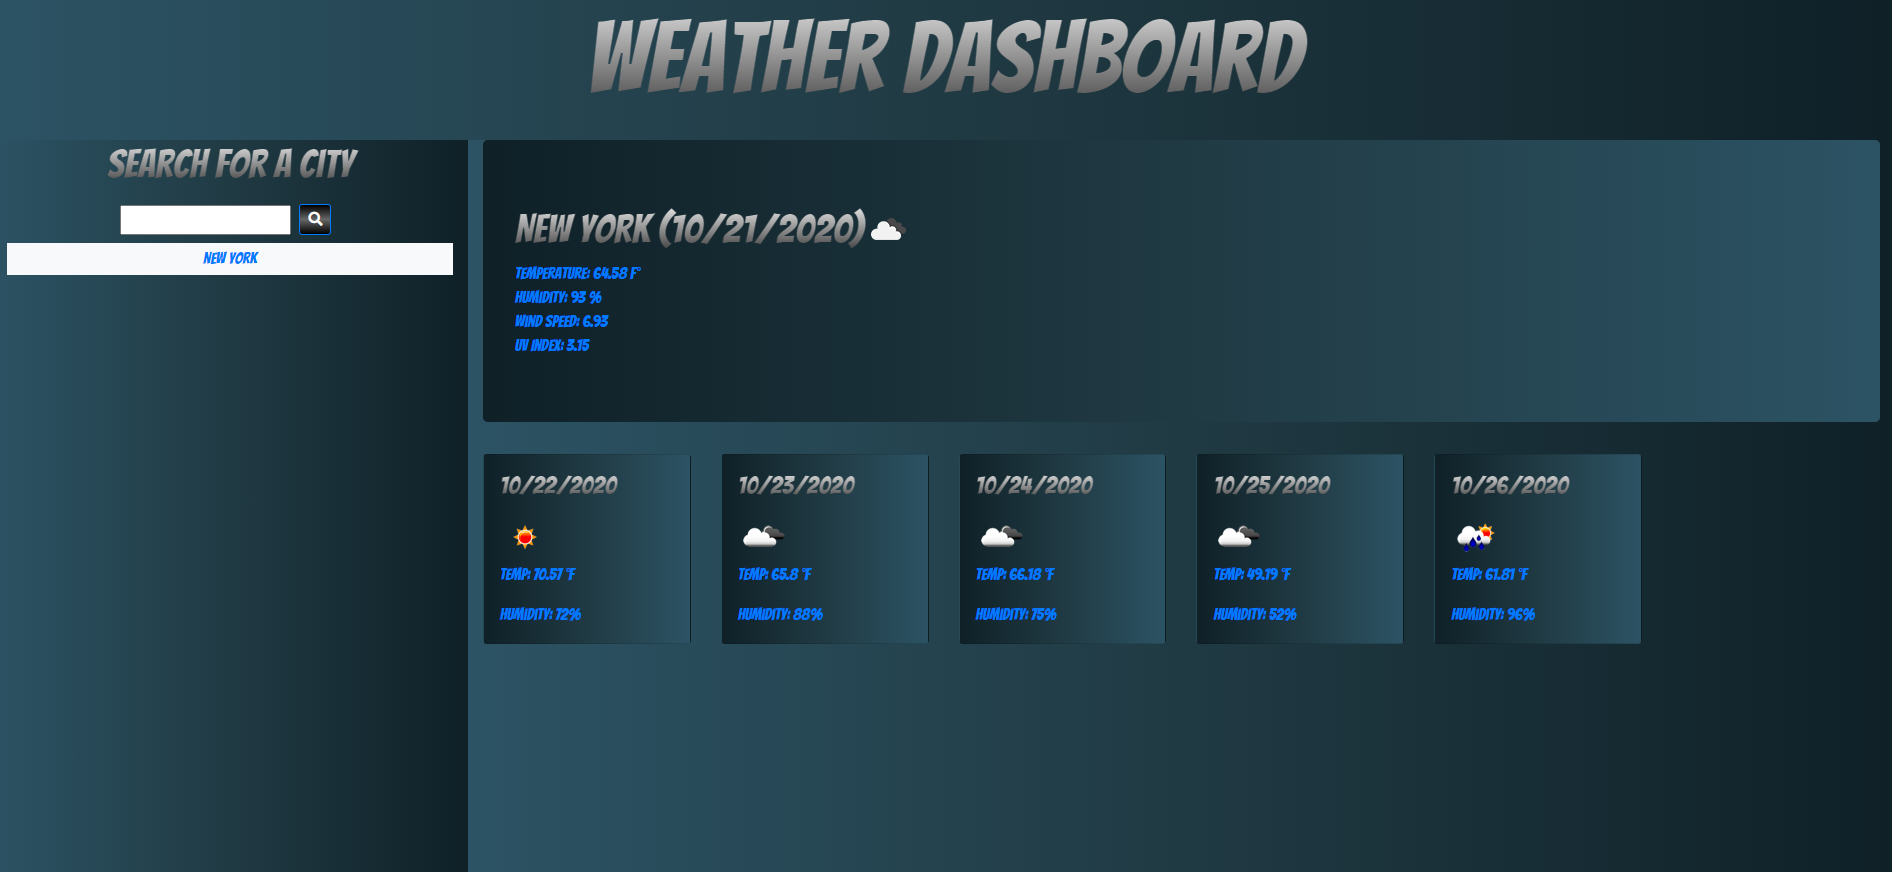
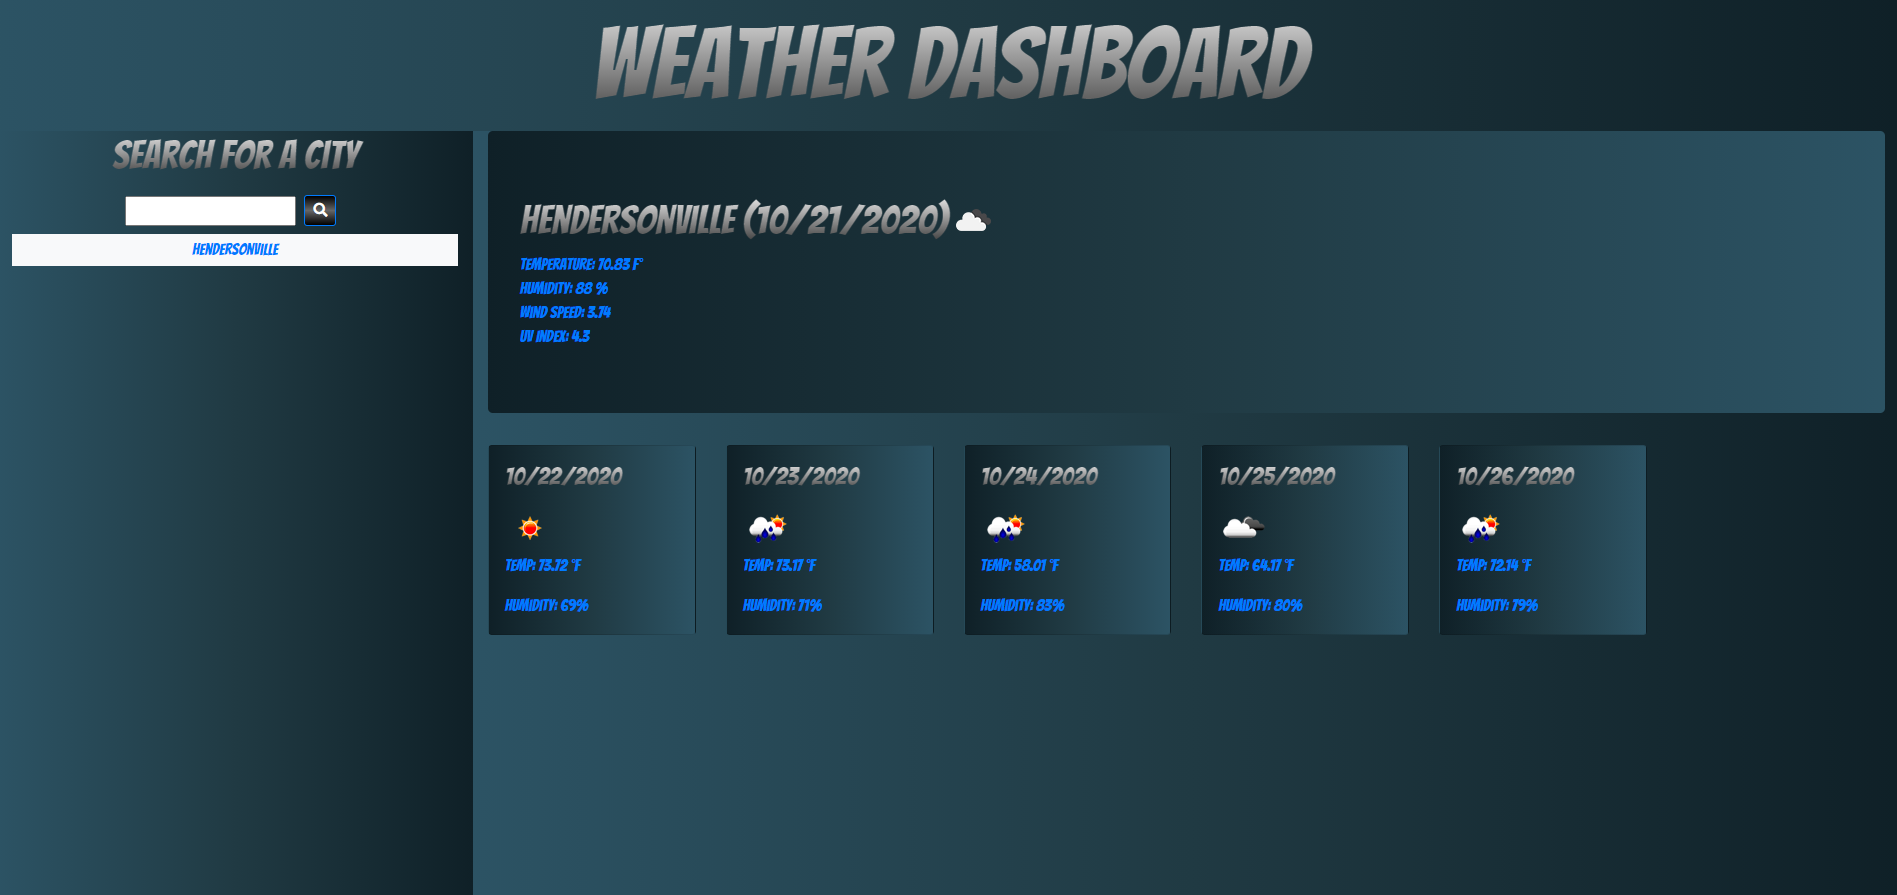
Changed the header size to center the text and added link to the site in the readme

diff --git a/index.html b/index.html
@@ -13,7 +13,7 @@
 </head>
 
 <body style="height: 100vh">
-    <header style="height: 150px" class="bg-header text-center text-primary">
+    <header style="height: 135px" class="bg-header text-center text-primary">
         <h1 class="py-2">Weather Dashboard</h1>
     </header>
     <div class="container-fluid h-100">

diff --git a/README.md b/README.md
@@ -1,5 +1,9 @@
-## Bootstrap Gradient Weather Dashboard
+# Bootstrap Gradient Weather Dashboard
 I wanted to refactor one of my class projects and do some cool stuff with it like add font styling and gradient backgrounds. This app uses Open Weather Map Api https://rapidapi.com/community/api/open-weather-map.  I added a css file and figured out how to rename all the components of the app so I could split them out in the css file and start adding gradients to them and added googlefonts with a gradient to make the text stand out.
 
+## Deployed Site 
+https://macparthum.github.io/Gradient_Weather_Dashboard/
+
+## Screenshot of Weather Dashboard
 
 ![Gradient Weather Map](assets/gradientWeather.png)
